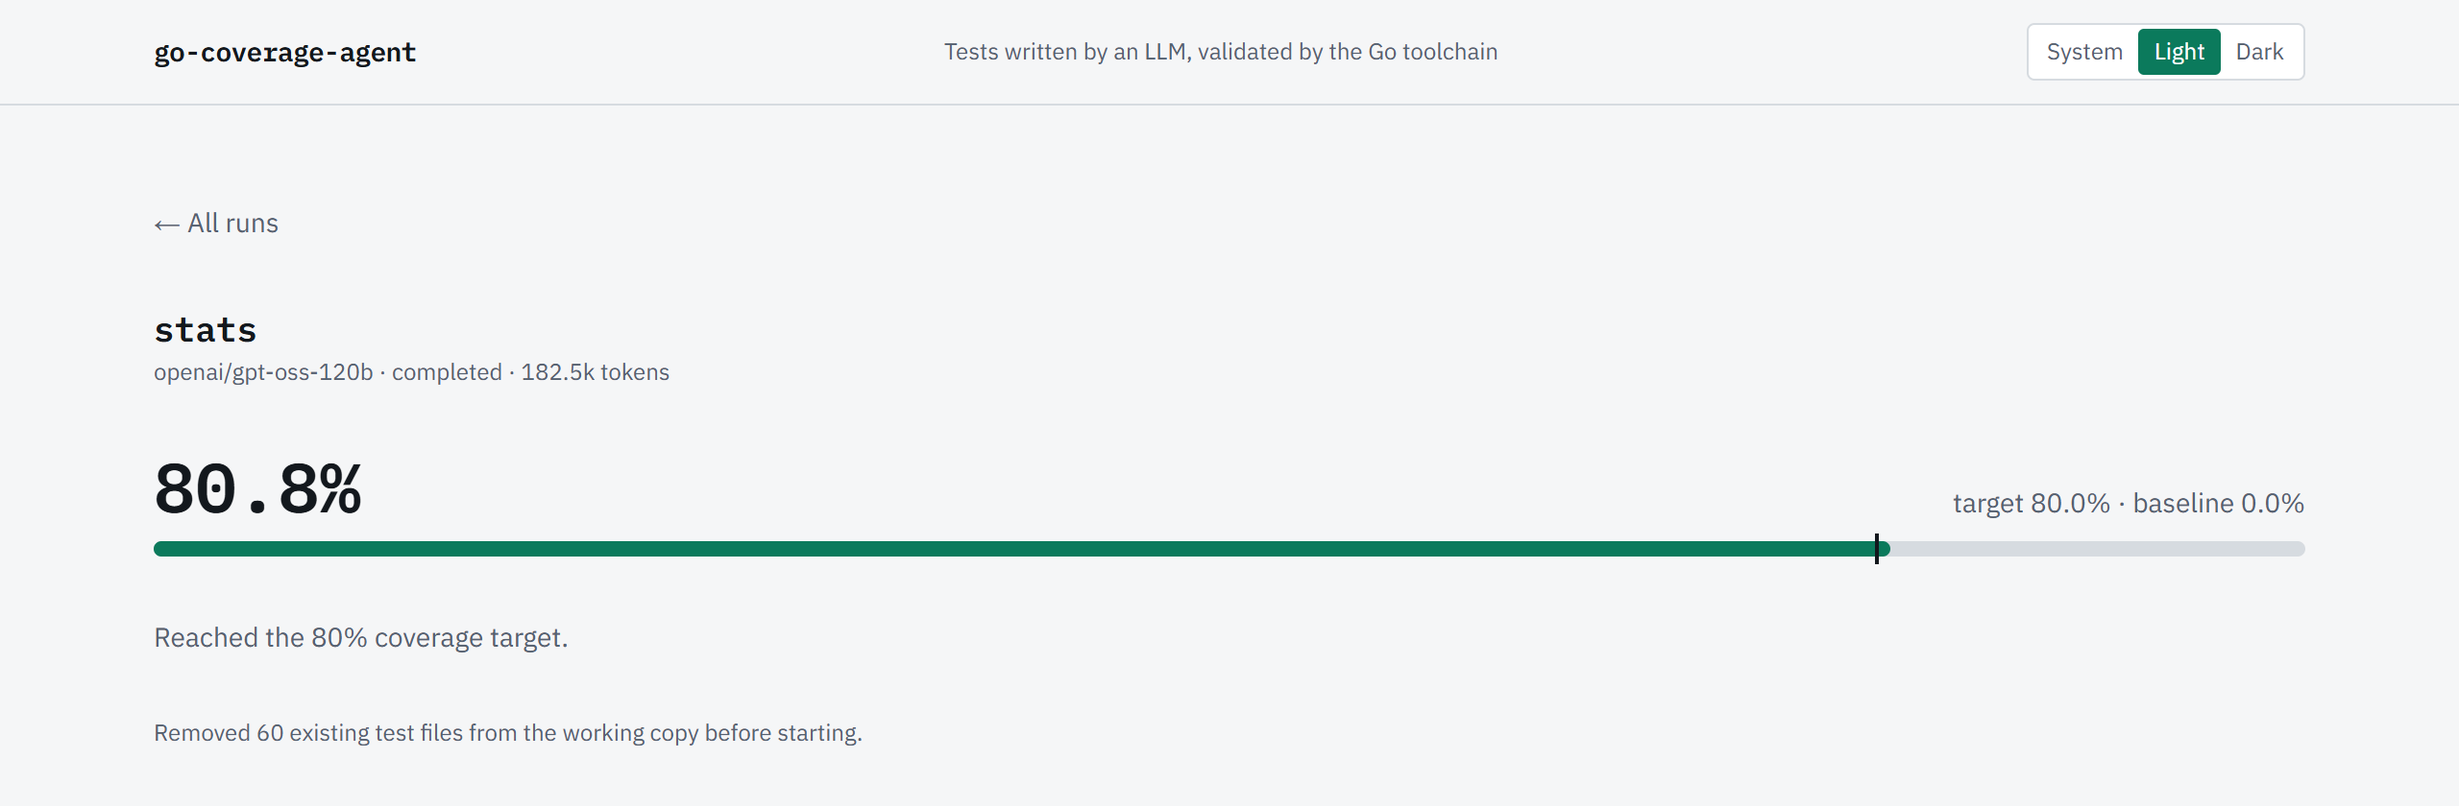
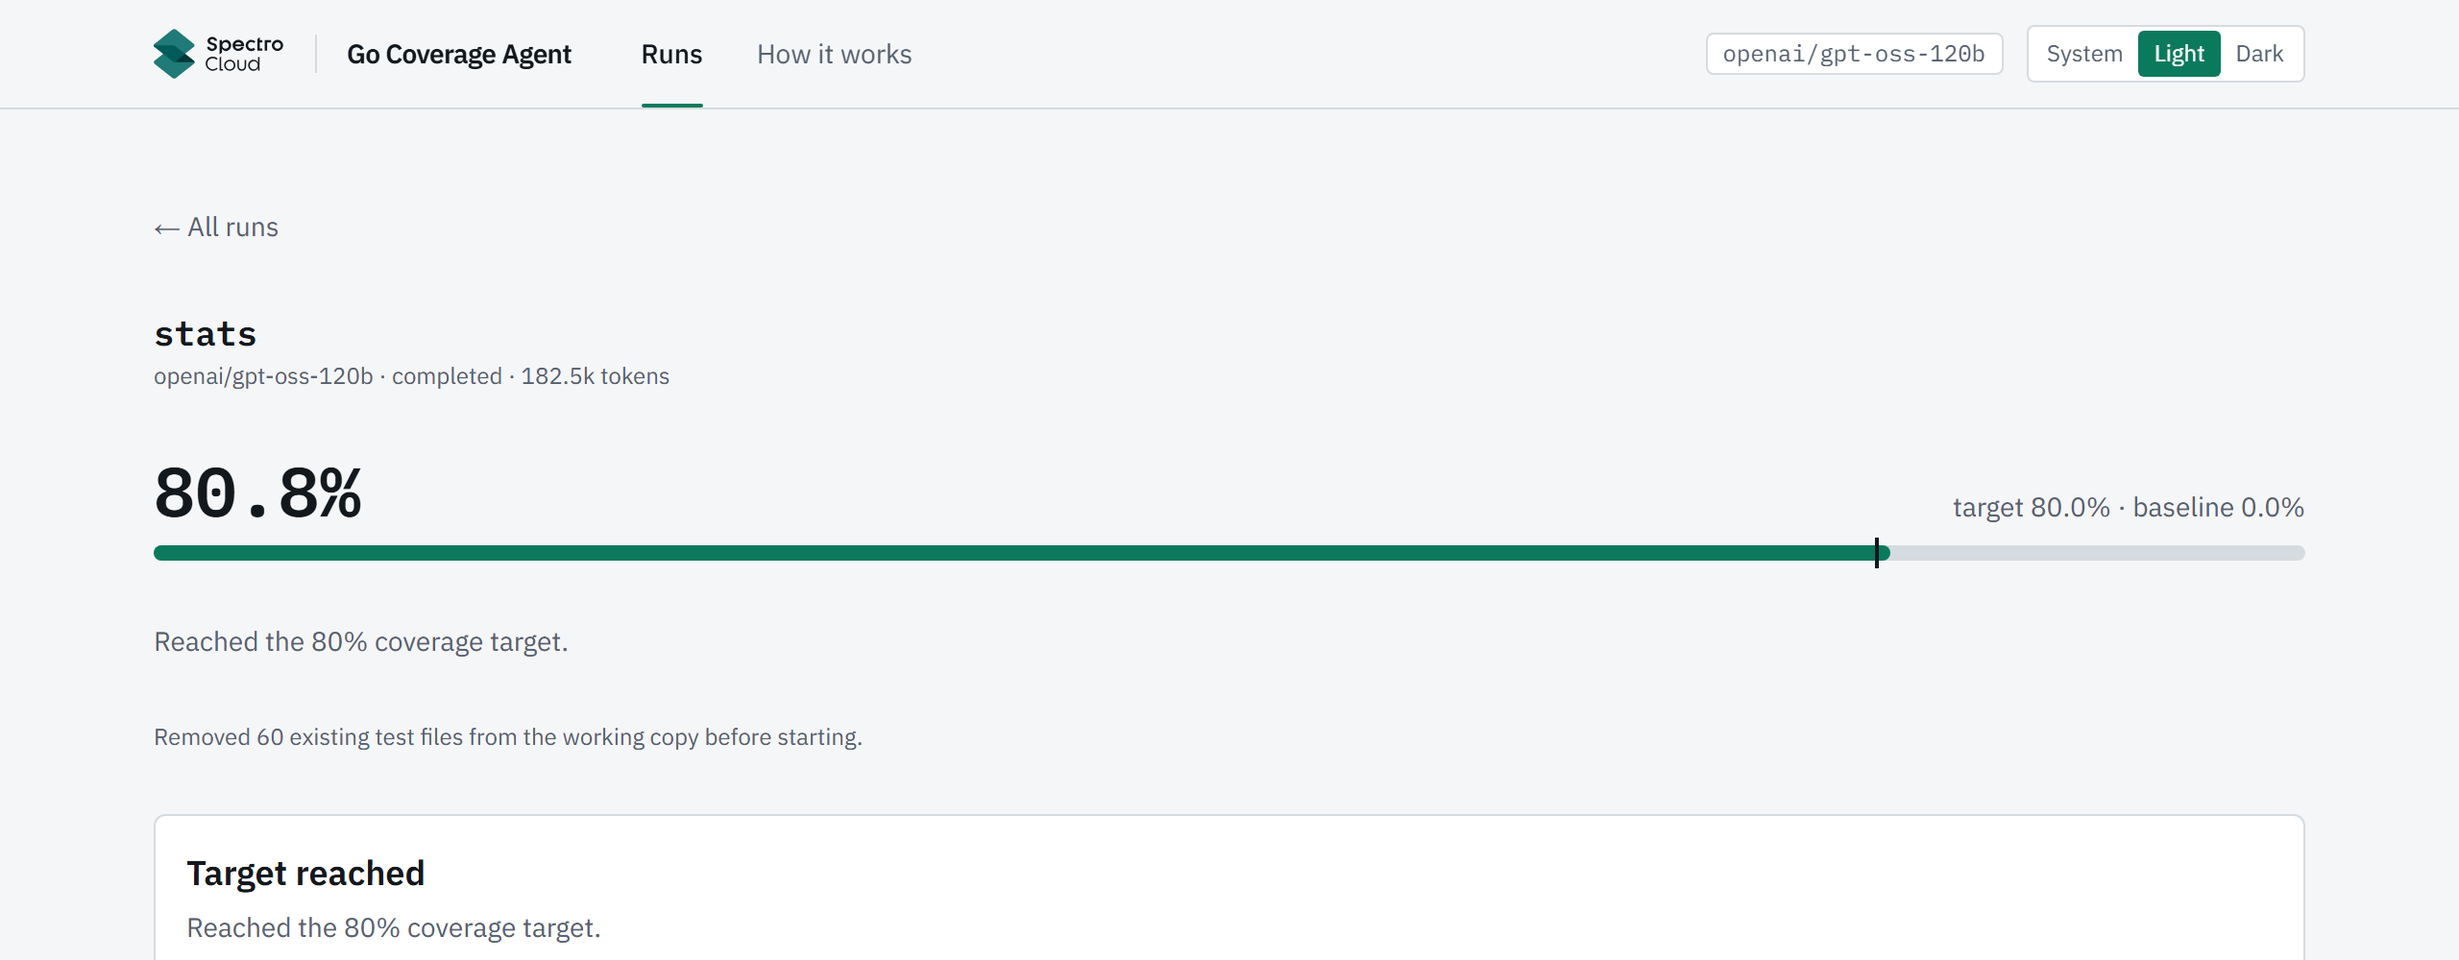
feat(frontend): Spectro Cloud navbar and How it works page

diff --git a/frontend/src/components/SpectroCloudLogo.tsx b/frontend/src/components/SpectroCloudLogo.tsx
@@ -1,0 +1,28 @@
+// AI-generated with Claude Code from a human-approved spec and plan; each task independently AI-reviewed; integrated and verified by Lionel Derrick Roxas.
+// Official Spectro Cloud logo (paths only). The wordmark follows currentColor; the darkest teal is a CSS variable so it stays visible in dark mode.
+const PATHS: [string, string][] = [
+  ["M60.9893 20.6785H63.8372C63.8372 21.8988 65.136 22.7928 66.6173 22.7928C68.332 22.7928 69.3719 21.8776 69.3719 20.7632C69.3719 19.3014 68.4678 18.9539 66.3159 18.3438C64.3253 17.776 61.4519 17.0557 61.4519 13.81C61.4519 11.2804 63.8839 9.25073 66.9399 9.25073C69.9958 9.25073 72.3599 11.2804 72.3599 13.8311H69.4865C69.4865 12.6108 68.3999 11.7803 66.9144 11.7803C65.3185 11.7803 64.3211 12.5854 64.3211 13.6108C64.3211 14.6362 64.9705 15.1574 67.0757 15.7676C69.1851 16.3565 72.2411 17.0557 72.2411 20.6319C72.2411 23.3352 69.7157 25.3648 66.5918 25.3648C63.468 25.3648 60.9893 23.2505 60.9893 20.6785Z", "currentColor"],
+  ["M75.208 12.9923H77.8862V15.4287H77.9753C78.7181 13.755 80.5899 12.666 82.6611 12.666C85.9293 12.666 88.4589 15.4922 88.4589 19.0176C88.4589 22.5429 85.9293 25.3692 82.6611 25.3692C80.679 25.3692 79.0874 24.5217 78.0432 22.7167H77.9541V27.1191L75.208 29.2165V12.9923ZM85.6449 19.0176C85.6449 16.7125 83.9684 15.2338 81.9396 15.2338C79.9108 15.2338 78.2767 16.7125 78.2767 19.0176C78.2767 21.3226 79.932 22.8014 81.9396 22.8014C83.9472 22.8014 85.6449 21.3226 85.6449 19.0176Z", "currentColor"],
+  ["M90.0802 18.954C90.0802 15.4287 92.9579 12.666 96.6378 12.666C100.318 12.666 103.195 15.4287 103.195 19.0388C103.195 19.2337 103.174 19.5811 103.106 19.9074H92.9961C93.3017 21.5599 94.8466 22.8014 96.6802 22.8014C98.1191 22.8014 99.316 22.1277 99.8847 20.9074H102.894C102.045 23.4963 99.647 25.3437 96.6378 25.3437C92.9536 25.3437 90.0802 22.4709 90.0802 18.9498V18.954ZM100.169 17.8439C99.9272 16.4075 98.5138 15.2126 96.5953 15.2126C94.6769 15.2126 93.238 16.3227 93.0428 17.8439H100.169Z", "currentColor"],
+  ["M105.003 18.9541C105.003 15.4287 107.881 12.5813 111.434 12.5813C113.263 12.5813 114.944 13.3652 116.098 14.5813L114.333 16.3863C113.658 15.6236 112.656 15.1448 111.434 15.1448C109.384 15.1448 107.75 16.7973 107.75 18.9541C107.75 21.1108 109.384 22.7845 111.434 22.7845C112.588 22.7845 113.505 22.3692 114.18 21.6955L115.945 23.4794C114.791 24.6531 113.199 25.3522 111.434 25.3522C107.881 25.3522 105.003 22.5006 105.003 18.9583V18.9541Z", "currentColor"],
+  ["M118.356 11.7423L121.081 9.59399V12.9922H124.018V15.5388H121.081V22.4793H123.955V25.0259H118.356V11.7465V11.7423Z", "currentColor"],
+  ["M126.718 12.9922H133.976V15.5387H129.464V25.0216H126.718V12.9922Z", "currentColor"],
+  ["M134.909 19.0174C134.909 15.4709 137.787 12.687 141.314 12.687C144.841 12.687 147.723 15.4709 147.723 19.0174C147.723 22.5639 144.845 25.3478 141.314 25.3478C137.783 25.3478 134.909 22.475 134.909 19.0174ZM145.019 19.0174C145.019 16.6912 143.364 15.2548 141.314 15.2548C139.264 15.2548 137.655 16.6912 137.655 19.0174C137.655 21.3436 139.289 22.78 141.314 22.78C143.339 22.78 145.019 21.2589 145.019 19.0174Z", "currentColor"],
+  ["M80.5304 41.6271C80.5304 38.123 83.3869 35.3391 86.8927 35.3391C90.3986 35.3391 93.255 38.123 93.255 41.6271C93.255 45.1313 90.3986 47.9151 86.8927 47.9151C83.3869 47.9151 80.5304 45.0635 80.5304 41.6271ZM91.5318 41.6271C91.5318 38.9068 89.4393 36.9704 86.8885 36.9704C84.3376 36.9704 82.2239 38.9068 82.2239 41.6271C82.2239 44.3474 84.3164 46.2838 86.8885 46.2838C89.4606 46.2838 91.5318 44.2627 91.5318 41.6271Z", "currentColor"],
+  ["M95.5343 42.9958V35.623H97.2575V43.0848C97.2575 45.1737 98.6751 46.2838 100.526 46.2838C102.376 46.2838 103.815 45.1525 103.815 43.0848V35.623H105.513V42.9958C105.513 46.0423 103.357 47.9109 100.521 47.9109C97.6862 47.9109 95.53 46.0381 95.53 42.9958H95.5343Z", "currentColor"],
+  ["M107.847 41.6018C107.847 38.0765 110.483 35.2926 113.883 35.2926C116.302 35.2926 118.153 36.6613 119.001 38.5765H119.091V32.2461H120.788V47.5594H119.112V44.6018H119.048C118.068 46.7966 116.107 47.9068 113.883 47.9068C110.483 47.9068 107.847 45.0552 107.847 41.5976V41.6018ZM118.853 41.6018C118.853 38.9494 116.871 36.9028 114.256 36.9028C111.642 36.9028 109.617 38.9494 109.617 41.6018C109.617 44.2543 111.599 46.2797 114.256 46.2797C116.913 46.2797 118.853 44.212 118.853 41.6018Z", "currentColor"],
+  ["M76.9906 45.9534V31.4241L75.2886 32.763V47.5848H79.0618V45.9534H76.9906Z", "currentColor"],
+  ["M67.428 46.2584C63.9434 46.2584 61.1973 43.5169 61.1973 39.8644C61.1973 36.212 63.9434 33.5764 67.428 33.5764C69.2361 33.5764 70.7981 34.2501 71.961 35.3306L73.0009 34.229C71.5705 32.8137 69.5714 31.9197 67.428 31.9197C62.9842 31.9197 59.4104 35.4238 59.4104 39.8602C59.4104 44.2966 62.9842 47.9109 67.428 47.9109C69.5842 47.9109 71.5705 47.0168 73.0051 45.5847L71.9355 44.4533C70.8023 45.5635 69.2319 46.2584 67.4238 46.2584H67.428Z", "currentColor"],
+  ["M21.4869 56.089L0.948352 39.9029C-0.142452 39.0427 -0.142452 37.3902 0.948352 36.53L21.4869 20.3058C22.6074 19.4202 24.1863 19.4202 25.3068 20.3058L45.8453 36.53C46.9361 37.3902 46.9361 39.0427 45.8453 39.9029L25.3068 56.089C24.1905 56.9703 22.6116 56.9703 21.4911 56.089H21.4869Z", "#1F7A78"],
+  ["M45.8029 36.5088L24.9333 20.0812C23.9358 19.2931 22.7007 18.8651 21.4274 18.8651L1.74201 18.8312C0.880403 18.8312 0.447477 18.6744 0.260725 18.0854C0.163104 18.3524 0.12915 18.6066 0.12915 18.8015C0.12915 19.1956 0.226771 19.9371 0.978025 20.5346L21.8476 36.9791C22.8493 37.7673 24.0844 38.1952 25.3577 38.1995L45.094 38.2164C45.9175 38.2249 46.3419 38.3859 46.5202 38.9579C46.6178 38.691 46.6517 38.4367 46.6517 38.2418C46.6517 37.8435 46.5541 37.102 45.8029 36.5088Z", "var(--logo-deep, #043736)"],
+  ["M45.8368 17.1321L25.3025 0.907834C24.182 0.0222584 22.6031 0.0222584 21.4826 0.907834L0.94408 17.1321C-0.146724 17.9922 -0.146724 19.6448 0.94408 20.5049L21.3213 36.5639C21.3425 36.5936 21.3723 36.619 21.4104 36.6529C22.5607 37.5766 23.1506 37.8012 23.9189 38.013C24.6914 38.2249 25.3535 38.1995 25.6251 38.1995H26.6523C25.9647 38.1063 25.6676 37.691 25.5699 37.3563C25.4426 36.9241 25.6548 36.4622 26.058 36.0936L45.8283 20.5134C46.9191 19.6532 46.9191 18.0007 45.8283 17.1406L45.8368 17.1321Z", "#1F7A78"],
+  ["M26.0666 36.0851L35.6631 28.5217L24.9333 20.0727C23.9359 19.2846 22.7008 18.8566 21.4275 18.8566L1.74205 18.8227C0.88044 18.8227 0.443271 18.6617 0.260762 18.0728C0.120698 18.4753 0.112208 18.7761 0.150408 19.0897C0.188607 19.4117 0.328671 19.7888 0.540889 20.077C0.655488 20.2295 0.799797 20.382 0.982305 20.5261L21.3256 36.5597C21.3256 36.5597 21.8094 36.9749 22.2594 37.2673C22.7814 37.602 23.3459 37.8563 23.9444 38.0088C23.9529 38.0088 23.9613 38.013 23.9741 38.0173C24.424 38.1317 24.8909 38.191 25.362 38.191H26.6608C25.9732 38.102 25.6761 37.6825 25.5785 37.3478C25.4511 36.9156 25.6633 36.4537 26.0666 36.0851Z", "#005B5B"],
+];
+
+export function SpectroCloudLogo({ className }: { className?: string }) {
+  return (
+    <svg xmlns="http://www.w3.org/2000/svg" viewBox="0 0 148 57" fill="none" role="img" aria-label="Spectro Cloud" className={className}>
+      {PATHS.map(([d, fill], i) => <path key={i} d={d} fill={fill} />)}
+    </svg>
+  );
+}

diff --git a/frontend/src/app/how-it-works/page.tsx b/frontend/src/app/how-it-works/page.tsx
@@ -1,0 +1,97 @@
+// AI-generated with Claude Code from a human-approved spec and plan; each task independently AI-reviewed; integrated and verified by Lionel Derrick Roxas.
+import type { Metadata } from "next";
+import Link from "next/link";
+
+export const metadata: Metadata = { title: "How it works" };
+
+const WALKTHROUGH = "https://claude.ai/artifact/RxXGC2s7651iEFZDF3kYQ8";
+
+const STEPS = [
+  { title: "Copy & measure", body: <>Copies the repo into a scratch workspace and deletes existing tests. Measures baseline coverage with <code className="font-mono">go test -cover</code>.</> },
+  { title: "Plan (no AI)", body: <>Ranks functions by uncovered statements. Picks up to 3 targets per iteration, each at most 8 functions or 100 statements.</> },
+  { title: "Write (Groq)", body: <>The model writes table-driven Go tests from a compact context of the target code.</> },
+  { title: "Validate (5 gates)", body: <>Import guard, merge, compile, <code className="font-mono">go vet</code>, then tests pass twice with coverage.</> },
+  { title: "Keep or roll back", body: <>Kept only if tests pass and covered blocks are a strict superset. Otherwise one mechanical repair or LLM fix, else rolled back to the snapshot.</> },
+];
+
+const STOPS = ["Target reached", "Gains become marginal", "Iteration limit (20 by default)", "Token budget used"];
+
+const RESULT = [
+  { label: "Coverage", value: "0% → 80.75%" },
+  { label: "Iterations", value: "12" },
+  { label: "Time", value: "about 4 min" },
+  { label: "Model errors", value: "0" },
+];
+
+const h2 = "text-lg font-semibold tracking-tight";
+
+export default function HowItWorksPage() {
+  return (
+    <div className="mx-auto max-w-5xl space-y-14">
+      <section className="space-y-4">
+        <h1 className="max-w-3xl text-2xl font-semibold leading-snug tracking-tight sm:text-3xl">
+          Give it a Go repository and a target. It writes unit tests with an LLM, keeps only the ones that pass and add coverage, and stops at the target.
+        </h1>
+        <a href={WALKTHROUGH} target="_blank" rel="noopener noreferrer" className="inline-block text-sm text-accent underline-offset-4 hover:underline">Full walkthrough</a>
+      </section>
+
+      <section aria-labelledby="loop-heading" className="space-y-5">
+        <h2 id="loop-heading" className={h2}>The loop</h2>
+        <ol className="grid gap-3 lg:grid-cols-5">
+          {STEPS.map((s, i) => (
+            <li key={s.title} className="flex gap-3 rounded-sm border border-border bg-surface p-4 lg:flex-col lg:gap-2">
+              <span aria-hidden className="font-mono text-sm font-semibold tabular-nums text-accent">{i + 1}</span>
+              <div className="space-y-1.5">
+                <h3 className="text-sm font-semibold">{s.title}</h3>
+                <p className="text-sm leading-relaxed text-muted">{s.body}</p>
+              </div>
+            </li>
+          ))}
+        </ol>
+        <p className="flex items-center gap-2 text-sm text-muted">
+          <svg aria-hidden viewBox="0 0 24 24" className="h-4 w-4 shrink-0 text-accent" fill="none" stroke="currentColor" strokeWidth="2" strokeLinecap="round" strokeLinejoin="round">
+            <path d="M3 12a9 9 0 0 1 15.5-6.2L21 8" /><path d="M21 3v5h-5" /><path d="M21 12a9 9 0 0 1-15.5 6.2L3 16" /><path d="M3 21v-5h5" />
+          </svg>
+          Then it repeats from step 2 with the new coverage, until a stop condition is met.
+        </p>
+      </section>
+
+      <div className="grid gap-10 md:grid-cols-2">
+        <section className="space-y-3">
+          <h2 className={h2}>How the percentage is calculated</h2>
+          <p className="text-sm leading-relaxed text-muted">
+            Covered statements divided by total statements, from Go&apos;s coverage profile. A seed file makes every package count, even untested ones.
+          </p>
+          <p className="text-sm leading-relaxed text-muted">Failing or flaky tests are never kept, so they never count.</p>
+        </section>
+        <section className="space-y-3">
+          <h2 className={h2}>When it stops</h2>
+          <ul className="space-y-1.5 text-sm">
+            {STOPS.map((s) => (
+              <li key={s} className="flex items-center gap-2"><span aria-hidden className="h-1.5 w-1.5 rounded-full bg-accent" />{s}</li>
+            ))}
+          </ul>
+        </section>
+      </div>
+
+      <section aria-labelledby="result-heading" className="space-y-4">
+        <h2 id="result-heading" className={h2}>Measured result</h2>
+        <p className="text-sm text-muted">
+          <span className="font-mono">montanaflynn/stats</span> with its tests deleted.
+        </p>
+        <dl className="grid grid-cols-2 gap-px overflow-hidden rounded-sm border border-border bg-border sm:grid-cols-4">
+          {RESULT.map((r) => (
+            <div key={r.label} className="bg-surface p-4">
+              <dt className="text-xs text-muted">{r.label}</dt>
+              <dd className="mt-1 font-mono text-lg font-semibold tabular-nums">{r.value}</dd>
+            </div>
+          ))}
+        </dl>
+      </section>
+
+      <footer className="border-t border-border pt-6">
+        <Link href="/" className="inline-block rounded-sm bg-accent px-5 py-2 text-sm font-medium text-on-accent">Start a run →</Link>
+      </footer>
+    </div>
+  );
+}

diff --git a/frontend/src/components/NavBar.tsx b/frontend/src/components/NavBar.tsx
@@ -1,0 +1,50 @@
+// AI-generated with Claude Code from a human-approved spec and plan; each task independently AI-reviewed; integrated and verified by Lionel Derrick Roxas.
+"use client";
+import Link from "next/link";
+import { usePathname } from "next/navigation";
+import { useEffect, useState } from "react";
+import { SpectroCloudLogo } from "@/components/SpectroCloudLogo";
+import { ThemeToggle } from "@/components/ThemeToggle";
+import { api } from "@/lib/api";
+
+const LINKS = [
+  { href: "/", label: "Runs", active: (p: string) => p === "/" || p.startsWith("/jobs/") },
+  { href: "/how-it-works", label: "How it works", active: (p: string) => p === "/how-it-works" },
+];
+
+export function NavBar() {
+  const pathname = usePathname() ?? "/";
+  const [model, setModel] = useState<string | null>(null);
+
+  useEffect(() => {
+    let alive = true;
+    api.health().then((h) => { if (alive) setModel(h.model || null); }).catch(() => {});
+    return () => { alive = false; };
+  }, []);
+
+  return (
+    <header className="sticky top-0 z-20 border-b border-border bg-bg/85 backdrop-blur">
+      <div className="mx-auto flex h-14 max-w-6xl items-center gap-3 px-3 sm:gap-4 sm:px-4">
+        <SpectroCloudLogo className="h-[22px] w-auto shrink-0 sm:h-[26px]" />
+        <span aria-hidden className="hidden h-5 w-px bg-border sm:block" />
+        <Link href="/" className="hidden whitespace-nowrap text-sm font-semibold tracking-tight sm:block">Go Coverage Agent</Link>
+        <nav aria-label="Main" className="flex h-full items-stretch gap-0.5 sm:ml-2 sm:gap-1">
+          {LINKS.map((l) => {
+            const active = l.active(pathname);
+            return (
+              <Link key={l.href} href={l.href} aria-current={active ? "page" : undefined}
+                    className={`relative flex items-center whitespace-nowrap px-2 text-sm transition-colors sm:px-3 ${active ? "font-medium text-text" : "text-muted hover:text-text"}`}>
+                {l.label}
+                {active && <span aria-hidden className="absolute inset-x-2 bottom-0 h-0.5 rounded-full bg-accent sm:inset-x-3" />}
+              </Link>
+            );
+          })}
+        </nav>
+        <div className="ml-auto flex items-center gap-3">
+          {model && <span title="Model" className="hidden rounded-sm border border-border bg-surface px-2 py-0.5 font-mono text-xs text-muted sm:inline">{model}</span>}
+          <ThemeToggle />
+        </div>
+      </div>
+    </header>
+  );
+}

diff --git a/frontend/src/components/NavBar.test.tsx b/frontend/src/components/NavBar.test.tsx
@@ -1,0 +1,50 @@
+// AI-generated with Claude Code from a human-approved spec and plan; each task independently AI-reviewed; integrated and verified by Lionel Derrick Roxas.
+// @vitest-environment jsdom
+import { render, screen } from "@testing-library/react";
+import { beforeEach, describe, expect, it, vi } from "vitest";
+import { NavBar } from "./NavBar";
+import { api } from "@/lib/api";
+
+let path = "/";
+vi.mock("next/navigation", () => ({ usePathname: () => path }));
+vi.mock("@/lib/api", async (orig) => {
+  const real = await orig<typeof import("@/lib/api")>();
+  return { ...real, api: { health: vi.fn() } };
+});
+
+describe("NavBar", () => {
+  beforeEach(() => {
+    path = "/";
+    vi.mocked(api.health).mockResolvedValue({ model: "llama-x" } as never);
+  });
+
+  it("renders the logo, app name link and both nav links", async () => {
+    render(<NavBar />);
+    expect(screen.getByRole("img", { name: "Spectro Cloud" })).toBeInTheDocument();
+    expect(screen.getByRole("link", { name: "Go Coverage Agent" })).toHaveAttribute("href", "/");
+    expect(screen.getByRole("link", { name: "Runs" })).toHaveAttribute("href", "/");
+    expect(screen.getByRole("link", { name: "How it works" })).toHaveAttribute("href", "/how-it-works");
+    expect(await screen.findByText("llama-x")).toBeInTheDocument();
+  });
+
+  it.each([["/"], ["/jobs/abc"]])("marks Runs current on %s", (p) => {
+    path = p;
+    render(<NavBar />);
+    expect(screen.getByRole("link", { name: "Runs" })).toHaveAttribute("aria-current", "page");
+    expect(screen.getByRole("link", { name: "How it works" })).not.toHaveAttribute("aria-current");
+  });
+
+  it("marks How it works current on /how-it-works", () => {
+    path = "/how-it-works";
+    render(<NavBar />);
+    expect(screen.getByRole("link", { name: "How it works" })).toHaveAttribute("aria-current", "page");
+    expect(screen.getByRole("link", { name: "Runs" })).not.toHaveAttribute("aria-current");
+  });
+
+  it("hides the model badge when health is unavailable", async () => {
+    vi.mocked(api.health).mockRejectedValue(new Error("down"));
+    render(<NavBar />);
+    await screen.findByRole("link", { name: "Runs" });
+    expect(screen.queryByTitle("Model")).not.toBeInTheDocument();
+  });
+});

diff --git a/frontend/src/app/how-it-works/page.test.tsx b/frontend/src/app/how-it-works/page.test.tsx
@@ -1,0 +1,27 @@
+// AI-generated with Claude Code from a human-approved spec and plan; each task independently AI-reviewed; integrated and verified by Lionel Derrick Roxas.
+// @vitest-environment jsdom
+import { render, screen } from "@testing-library/react";
+import { describe, expect, it } from "vitest";
+import HowItWorksPage from "./page";
+
+describe("HowItWorksPage", () => {
+  it("lists the five steps in order", () => {
+    render(<HowItWorksPage />);
+    const items = screen.getAllByRole("heading", { level: 3 }).map((h) => h.textContent);
+    expect(items).toEqual(["Copy & measure", "Plan (no AI)", "Write (Groq)", "Validate (5 gates)", "Keep or roll back"]);
+  });
+
+  it("shows stop conditions, the measured result and the links", () => {
+    render(<HowItWorksPage />);
+    for (const t of ["Target reached", "Gains become marginal", "Iteration limit (20 by default)", "Token budget used"]) {
+      expect(screen.getByText(t)).toBeInTheDocument();
+    }
+    expect(screen.getByText("0% → 80.75%")).toBeInTheDocument();
+    expect(screen.getByText("12")).toBeInTheDocument();
+    expect(screen.getByText("about 4 min")).toBeInTheDocument();
+    expect(screen.getByRole("link", { name: /Start a run/ })).toHaveAttribute("href", "/");
+    const w = screen.getByRole("link", { name: "Full walkthrough" });
+    expect(w).toHaveAttribute("href", "https://claude.ai/artifact/RxXGC2s7651iEFZDF3kYQ8");
+    expect(w).toHaveAttribute("rel", expect.stringContaining("noopener"));
+  });
+});

diff --git a/frontend/src/app/layout.tsx b/frontend/src/app/layout.tsx
@@ -1,8 +1,7 @@
 // AI-generated with Claude Code from a human-approved spec and plan; each task independently AI-reviewed; integrated and verified by Lionel Derrick Roxas.
 import type { Metadata } from "next";
 import { IBM_Plex_Mono, IBM_Plex_Sans } from "next/font/google";
-import Link from "next/link";
-import { ThemeToggle } from "@/components/ThemeToggle";
+import { NavBar } from "@/components/NavBar";
 import "./globals.css";
 
 const plexSans = IBM_Plex_Sans({ variable: "--font-plex-sans", subsets: ["latin"], weight: ["400", "500", "600"] });
@@ -23,13 +22,7 @@ export default function RootLayout({ children }: { children: React.ReactNode }) 
         <script dangerouslySetInnerHTML={{ __html: THEME_SCRIPT }} />
       </head>
       <body className="min-h-screen bg-bg text-text antialiased">
-        <header className="border-b border-border">
-          <div className="mx-auto flex max-w-6xl flex-wrap items-center justify-between gap-x-4 gap-y-1 px-4 py-3">
-            <Link href="/" className="font-mono text-sm font-semibold tracking-tight">go-coverage-agent</Link>
-            <span className="order-last w-full text-xs text-muted sm:order-none sm:w-auto">Tests written by an LLM, validated by the Go toolchain</span>
-            <ThemeToggle />
-          </div>
-        </header>
+        <NavBar />
         <main className="mx-auto max-w-6xl px-4 py-8 sm:py-12">{children}</main>
       </body>
     </html>

diff --git a/frontend/src/app/globals.css b/frontend/src/app/globals.css
@@ -14,6 +14,7 @@
   --on-accent: #ffffff;
   --danger: #b3261e;
   --warn: #9a5b00;
+  --logo-deep: #043736;
   color-scheme: light;
 }
 
@@ -30,6 +31,7 @@
     --on-accent: #06251c;
     --danger: #f2766c;
     --warn: #e3ab3b;
+    --logo-deep: #4fb3ab;
     color-scheme: dark;
   }
 }
@@ -44,6 +46,7 @@
   --on-accent: #06251c;
   --danger: #f2766c;
   --warn: #e3ab3b;
+  --logo-deep: #4fb3ab;
   color-scheme: dark;
 }
 
